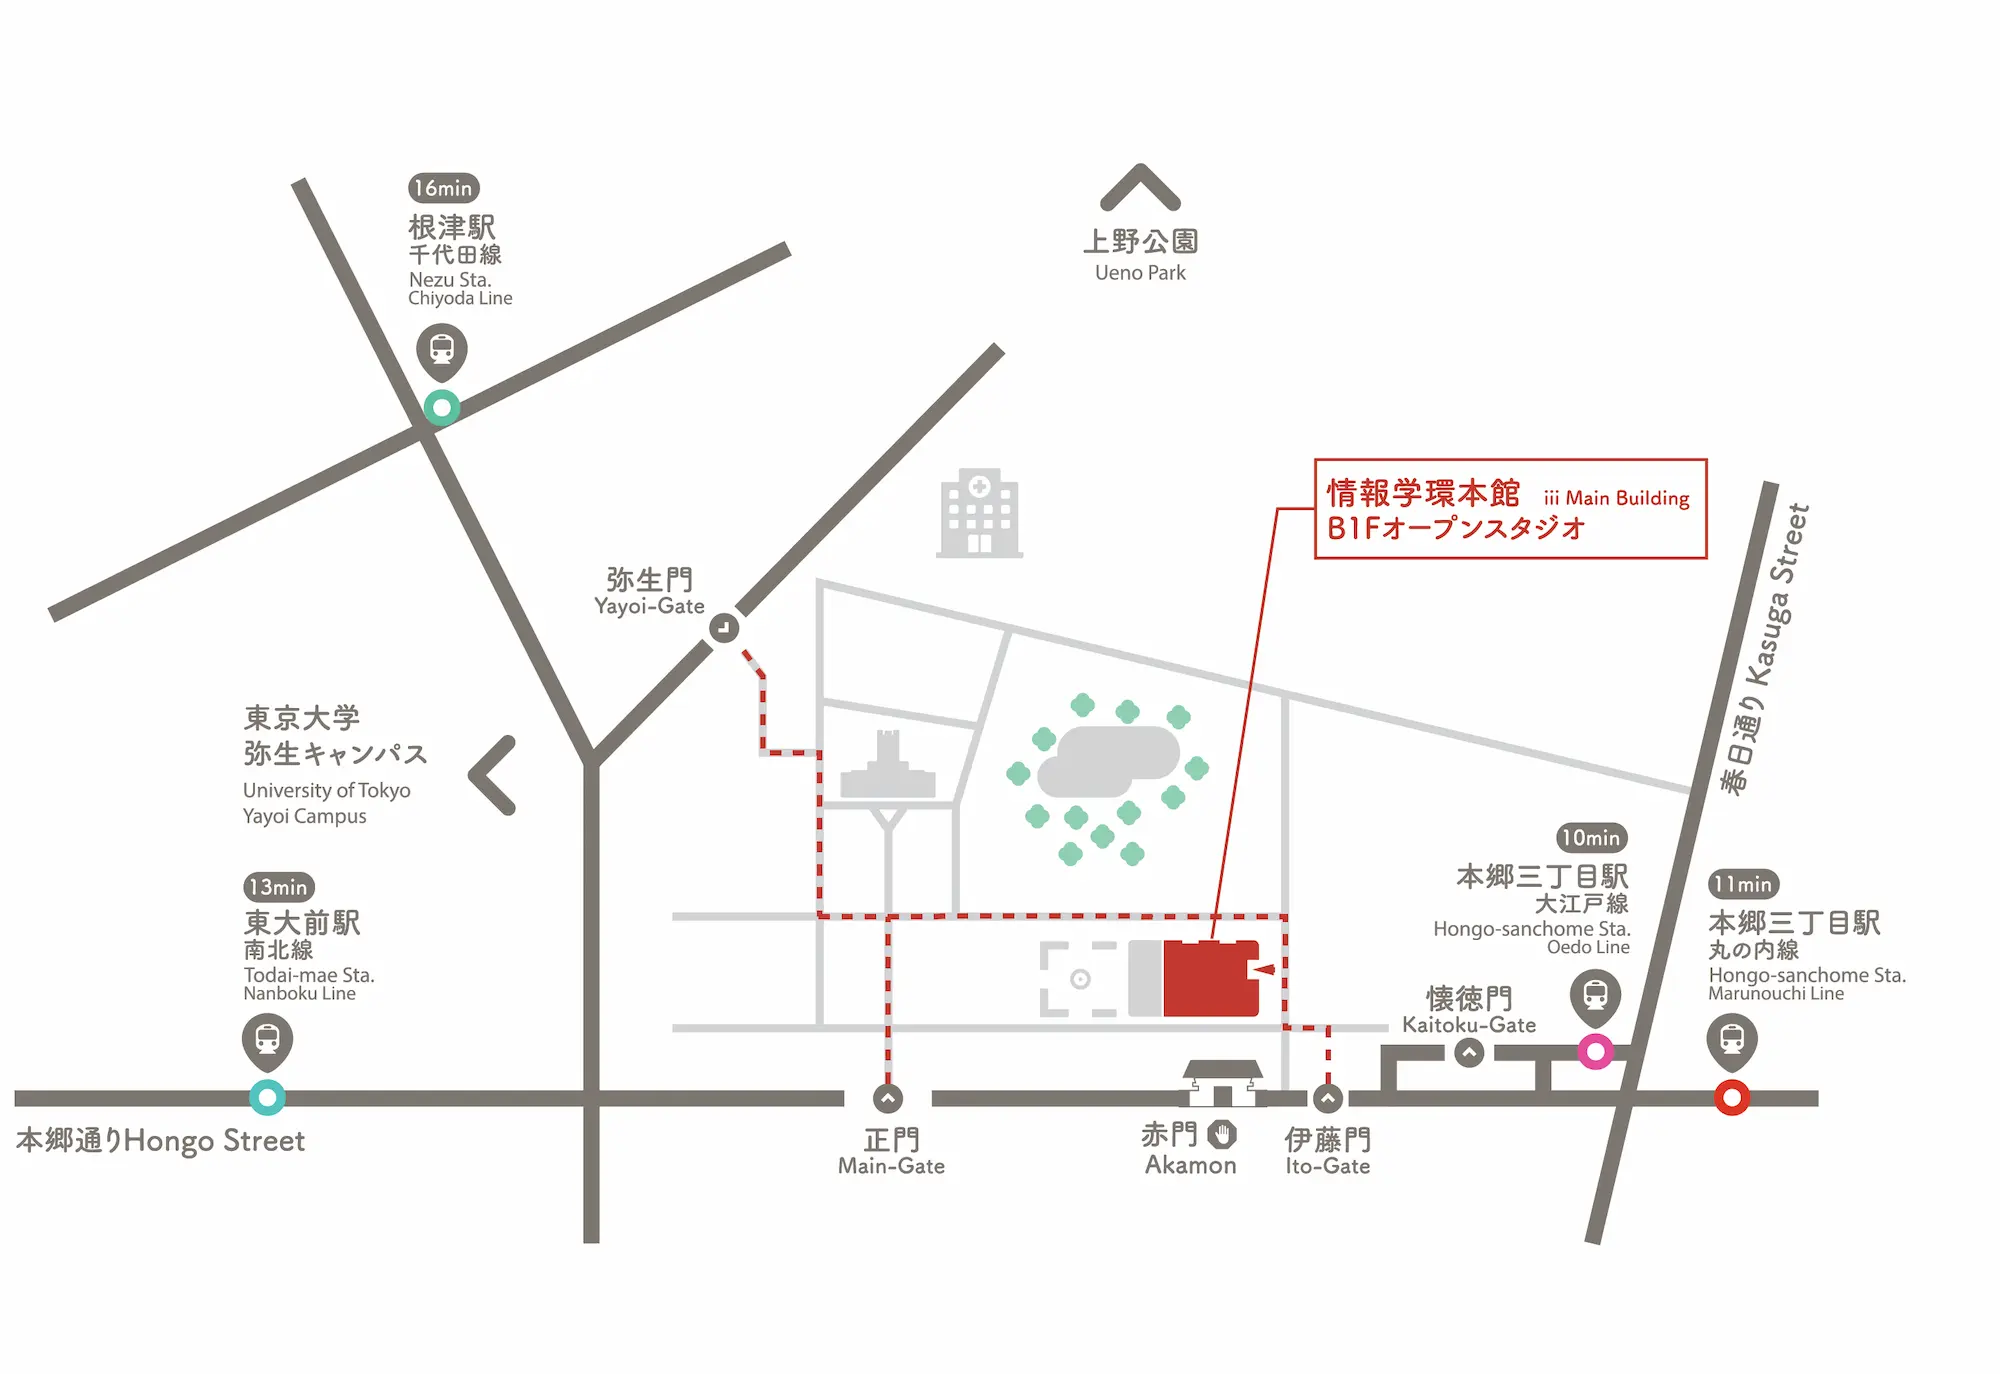
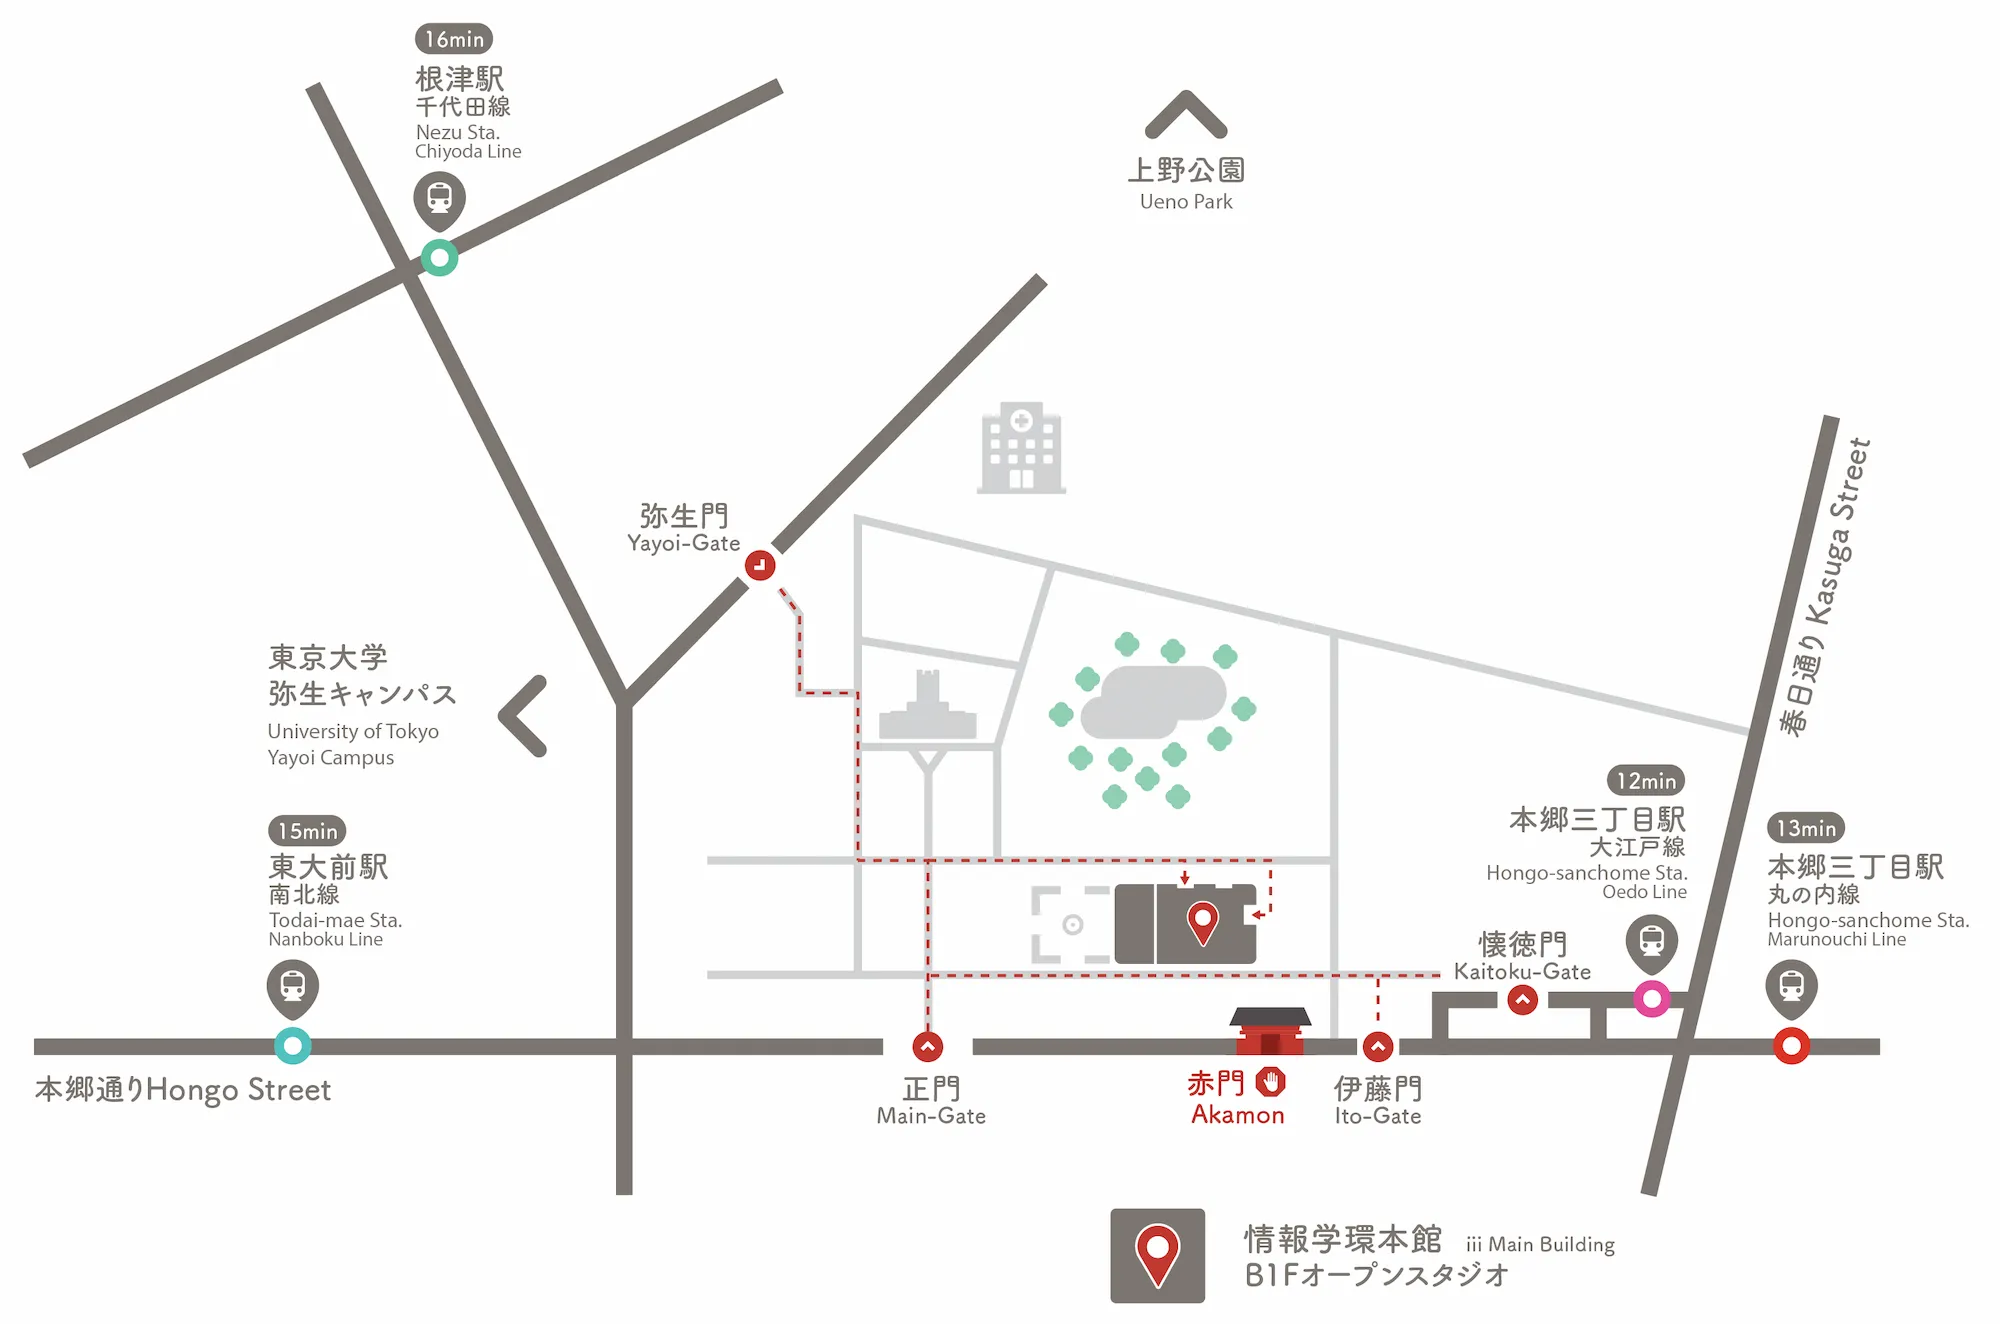
Revert main content to 2fc8d5a

diff --git a/data/works.ts b/data/works.ts
@@ -4,15 +4,12 @@ export type Work = {
   title: { ja: string; en: string };
   description: { ja: string; en: string };
   memberIds?: string[];
-  // members.ts（メンバーセクション）には載せず、作品のクレジットにだけ表示する名前
-  extraMembers?: string[];
 };
 
 export const works: Work[] = [
   {
     id: "work1",
-    image: "/works/audible_genes.webp",
-    title: { ja: "可聴化する遺伝子", en: "Audible Genes" },
+    title: { ja: "可聴化される遺伝子", en: "Audible Genes" },
     description: {
       ja: "DNA 配列のデータを、実行可能な命令セットとして再定義した上で、音楽理論に基づく音響に即時変換し、自己の生命情報を音楽作品として体験するためのシステム。コンプレックスである自らの身体を美しい音楽に変換することで、克服しようとする試み。",
       en: "This system redefines DNA sequence data as an executable set of instructions, translating it instantly into sound based on music theory, and allows users to experience their own biological information as a musical composition. It is an attempt to overcome my body—which is perceived as a source of complexity—by transforming it into beautiful music.",
@@ -26,7 +23,6 @@ export const works: Work[] = [
   },
   {
     id: "work2",
-    image: "/works/paw-walk-kv.png",
     title: { ja: "paw walk", en: "paw walk" },
     description: {
       ja: "犬が肉球で受ける歩行感覚を、人間の手のひらへ授ける。\n触覚体験と、犬視点での映像が、見慣れた街の風景を「あしもと３０センチ」から捉え直す。\nそして、犬の身体を通して歩くことで、私たち自身の身体感覚を再発見するとともに、都市環境は、誰にとっての「快適さ」として設計されてきたのかを問いかける。",
@@ -74,10 +70,10 @@ export const works: Work[] = [
     },
     memberIds: [
       "Haruna_Nohara",
-      "Seojung_Lee",
-      "Keigo_Toda",
-      "Ryoichi_Sato",
       "Hou_Yancheng",
+      "Ryoichi_Sato",
+      "Keigo_Toda",
+      "Seojung_Lee",
     ],
   },
   {
@@ -100,18 +96,15 @@ export const works: Work[] = [
     },
     memberIds: ["Hinata_Mikami", "Taisei_Fukaya"],
   },
-  // 一時的に非表示（手のひらで踊らされる / Danced in the Palm of a Hand）
-  // {
-  //   id: "work9",
-  //   image: "/works/danced_in_the_palm.png",
-  //   title: { ja: "手のひらで踊らされる", en: "Danced in the Palm of a Hand" },
-  //   description: {
-  //     ja: "私たちが自らの意志で決定している（と思い込んでいる）事柄は、遺伝や環境、アルゴリズム等の外部要因に無意識に影響されている。\n\n本作は、音楽や空間が行動に与える影響を「踊り」を通して体験し、自由意志とは何かを問いかけるインスタレーションだ。\n\n私たちは踊っているのだろうか、それとも踊らされているのだろうか。",
-  //     en: "What we believe we choose of our own free will is, in reality, unconsciously influenced by external factors such as genetics, environment, and algorithms.\n\nThrough the medium of \"dance,\" this installation allows us to experience how music and space affect our behavior, questioning the nature of free will.\n\nAre we dancing, or are we being danced?",
-  //   },
-  //   memberIds: ["Haruta_Ogawa", "Michael_Wong_Kam", "Tadasuke_Koshimbo"],
-  //   extraMembers: ["Joshua WK", "Warsman"],
-  // },
+  {
+    id: "work9",
+    title: { ja: "手のひらで踊らされる", en: "Danced in the Palm of a Hand" },
+    description: {
+      ja: "私たちが自らの意志で決定している（と思い込んでいる）事柄は、遺伝や環境、アルゴリズム等の外部要因に無意識に影響されている。\n\n本作は、音楽や空間が行動に与える影響を「踊り」を通して体験し、自由意志とは何かを問いかけるインスタレーションだ。\n\n私たちは踊っているのだろうか、それとも踊らされているのだろうか。",
+      en: "What we believe we choose of our own free will is, in reality, unconsciously influenced by external factors such as genetics, environment, and algorithms.\n\nThrough the medium of \"dance,\" this installation allows us to experience how music and space affect our behavior, questioning the nature of free will.\n\nAre we dancing, or are we being danced?",
+    },
+    memberIds: ["Haruta_Ogawa", "Michael_Wong_Kam", "Tadasuke_Koshimbo"],
+  },
   {
     id: "work10",
     image: "/works/microorganisms.jpg",
@@ -126,10 +119,10 @@ export const works: Work[] = [
     memberIds: [
       "Taisei_Fukaya",
       "Rikuto_Maruse",
-      "Kengo_Kawaji",
       "Rinji_Sasaki",
-      "Akane_Koyama",
+      "Kengo_Kawaji",
       "Hinata_Mikami",
+      "Akane_Koyama",
       "Yasmin_Hinano_Yamashita",
     ],
   },

diff --git a/components/sections/WorksSection.tsx b/components/sections/WorksSection.tsx
@@ -47,17 +47,17 @@ export function WorksSection({ dictionary, locale }: WorksSectionProps) {
           <h2 className="font-puritan text-3xl uppercase text-foreground md:text-[50px]">
             {dictionary.sections.works.title}
           </h2>
-          <div className="flex w-full flex-wrap justify-center gap-x-6 gap-y-10 md:gap-x-10">
+          <div className="flex flex-wrap justify-center gap-10 md:gap-16">
             {works.map((work) => (
               <button
                 aria-label={work.title[locale]}
-                className="group flex w-[calc(50%-1rem)] flex-col items-center transition-transform duration-300 hover:scale-105 md:w-[calc(20%-2.25rem)]"
+                className="group flex w-[240px] flex-col items-center transition-transform duration-300 hover:scale-105 md:w-[280px]"
                 key={work.id}
                 onClick={() => setSelected(work)}
                 type="button"
               >
                 <div
-                  className="flex aspect-square w-full items-center justify-center overflow-hidden rounded-full bg-white/85 shadow-[4px_6px_20px_rgba(0,0,0,0.18)]"
+                  className="flex h-[240px] w-[240px] items-center justify-center overflow-hidden rounded-full bg-white/85 shadow-[4px_6px_20px_rgba(0,0,0,0.18)] md:h-[280px] md:w-[280px]"
                 >
                   {work.image ? (
                     <img
@@ -110,20 +110,14 @@ export function WorksSection({ dictionary, locale }: WorksSectionProps) {
                 <p className="whitespace-pre-line font-zen-kaku text-base leading-relaxed text-foreground/75">
                   {selected.description[locale]}
                 </p>
-                {(() => {
-                  const names = [
-                    ...(selected.memberIds ?? [])
+                {selected.memberIds && selected.memberIds.length > 0 ? (
+                  <p className="mt-6 font-zen-kaku text-sm text-foreground/60">
+                    {selected.memberIds
                       .map((id) => getMemberById(id)?.[locale])
-                      .filter(Boolean),
-                    ...(selected.extraMembers ?? []),
-                  ];
-
-                  return names.length > 0 ? (
-                    <p className="mt-6 font-zen-kaku text-sm text-foreground/60">
-                      {names.join(" / ")}
-                    </p>
-                  ) : null;
-                })()}
+                      .filter(Boolean)
+                      .join(" / ")}
+                  </p>
+                ) : null}
               </div>
             </div>
           </div>

diff --git a/components/LocalePageContent.tsx b/components/LocalePageContent.tsx
@@ -3,7 +3,6 @@ import { AccessSection } from "@/components/sections/AccessSection";
 import { ArchivesSection } from "@/components/sections/ArchivesSection";
 import { ConceptSection } from "@/components/sections/ConceptSection";
 import { FooterSection } from "@/components/sections/FooterSection";
-import { GoodsSection } from "@/components/sections/GoodsSection";
 import { MainPageSection } from "@/components/sections/MainPageSection";
 import { MembersSection } from "@/components/sections/MembersSection";
 import { NavigationSection } from "@/components/sections/NavigationSection";
@@ -29,7 +28,6 @@ export function LocalePageContent({ locale }: LocalePageContentProps) {
         <ConceptSection dictionary={dictionary} />
         <AboutSection dictionary={dictionary} />
         <WorksSection dictionary={dictionary} locale={locale} />
-        <GoodsSection dictionary={dictionary} locale={locale} />
         <MembersSection dictionary={dictionary} locale={locale} />
         <AccessSection dictionary={dictionary} />
         <ArchivesSection dictionary={dictionary} />

diff --git a/components/sections/AccessSection.tsx b/components/sections/AccessSection.tsx
@@ -20,13 +20,11 @@ export function AccessSection({ dictionary }: AccessSectionProps) {
           </h2>
 
           {/* Map */}
-          <div className="mx-auto w-full max-w-2xl rounded-2xl bg-white overflow-hidden">
-            <img
-              src="/map.webp"
-              alt="Map"
-              className="ml-4"
-            />
-          </div>
+          <img
+            src="/map.webp"
+            alt="Map"
+            className="mx-auto w-full max-w-2xl rounded-2xl bg-white"
+          />
 
           {/* Info */}
           <div className="mt-12 flex flex-col gap-8">

diff --git a/lib/i18n.ts b/lib/i18n.ts
@@ -49,26 +49,6 @@ export type Dictionary = {
       title: string;
       body: string;
     };
-    goods: {
-      title: string;
-      lead: string;
-      description1: string;
-      description2: string;
-      description3: {
-        before: string;
-        linkLabel: string;
-        after: string;
-      };
-      description4: string;
-      description5: string;
-      itemsLabel: string;
-      note: string;
-      items: {
-        name: string;
-        description: string;
-        mark: string;
-      }[];
-    };
     access: {
       title: string;
       venue: {
